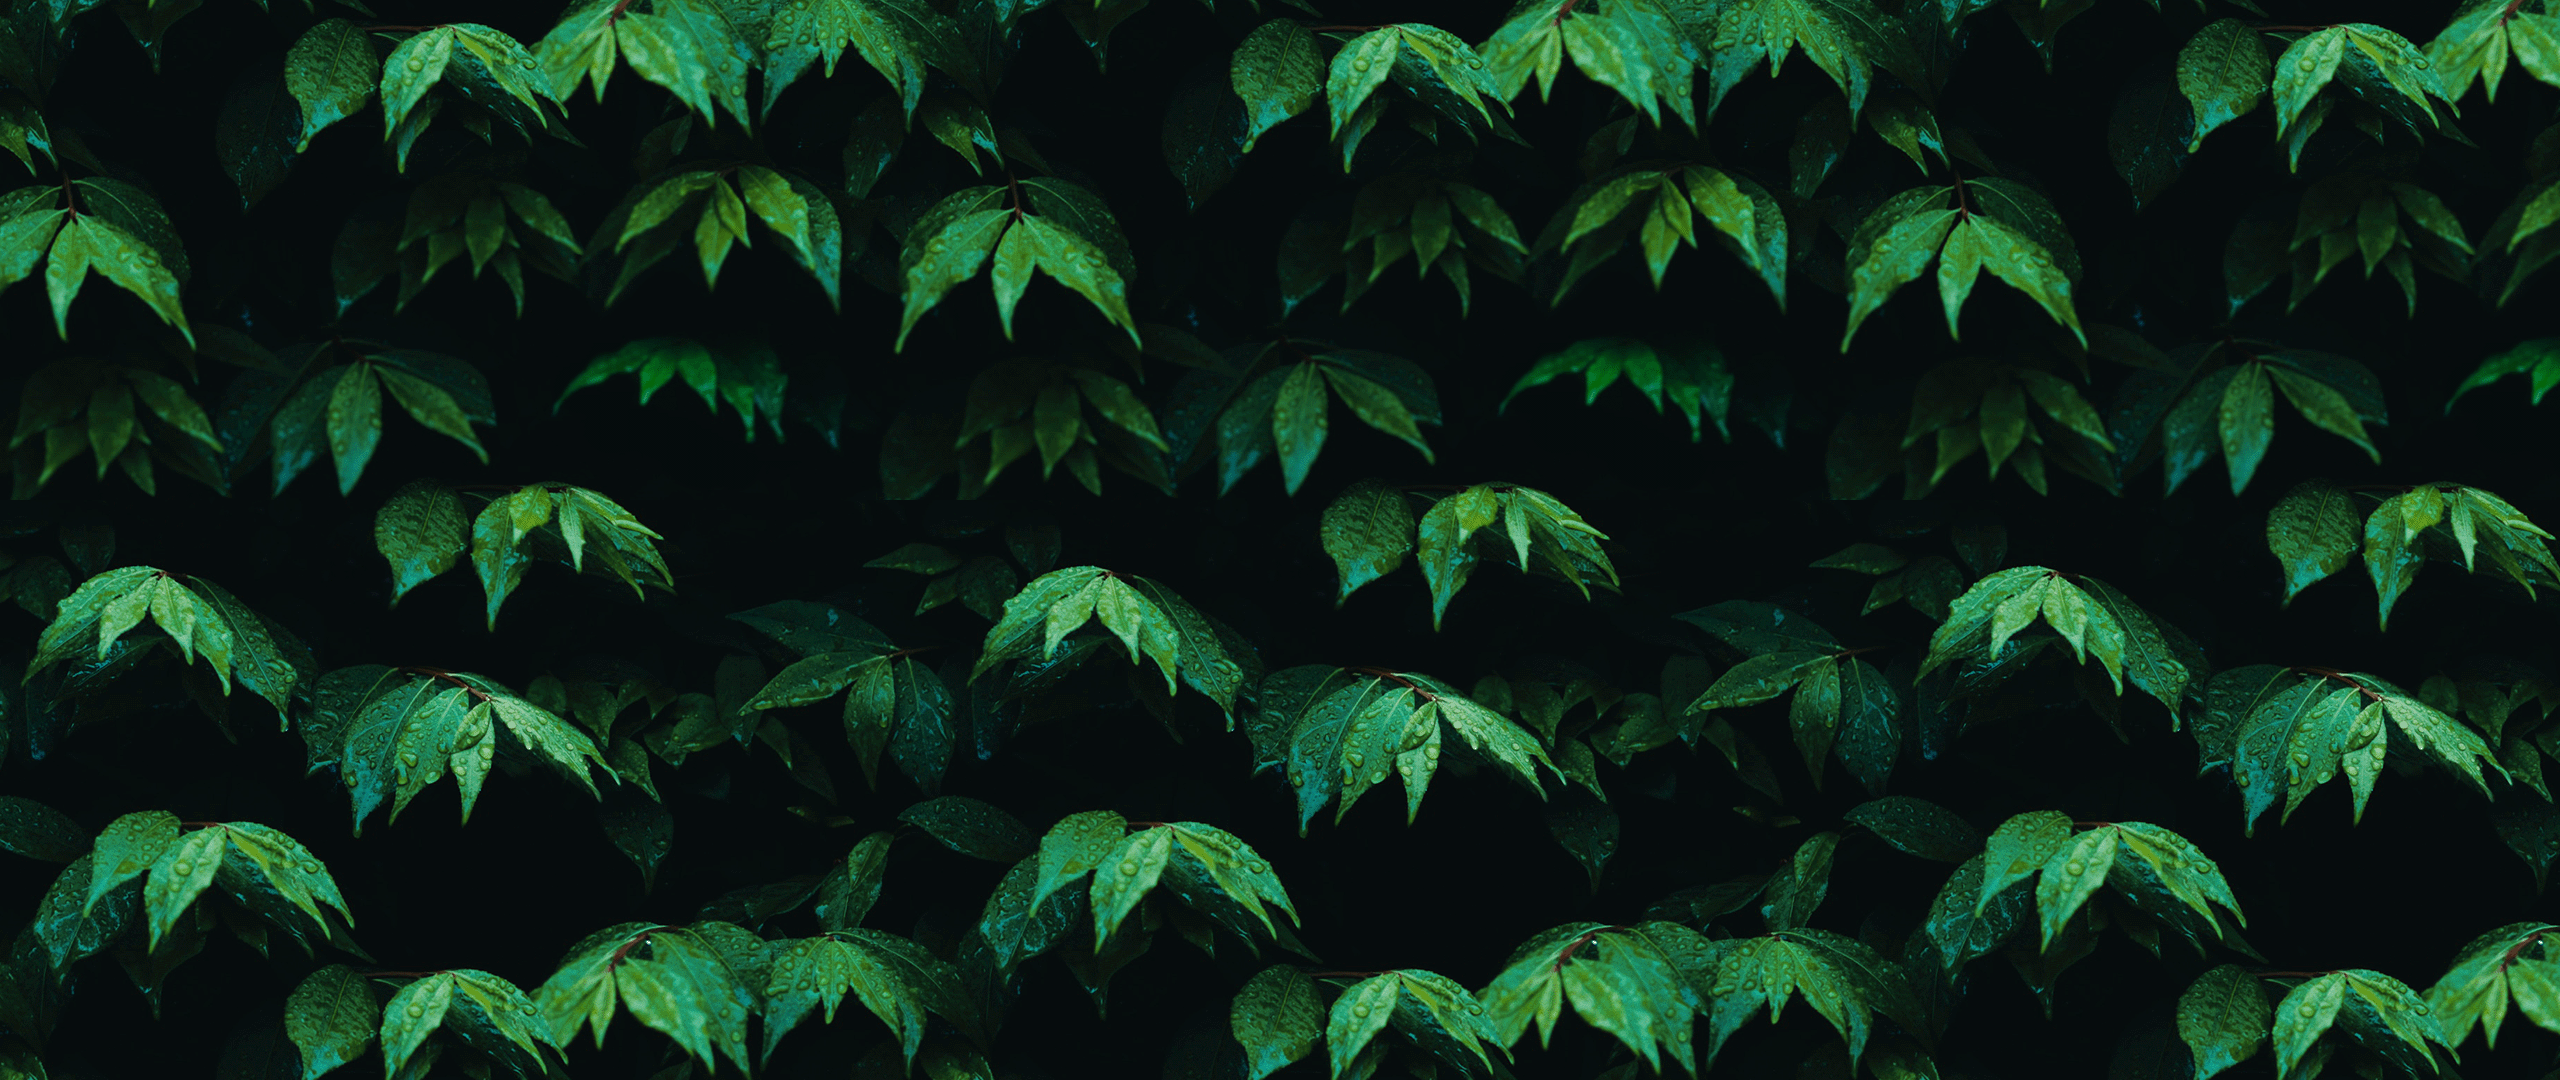
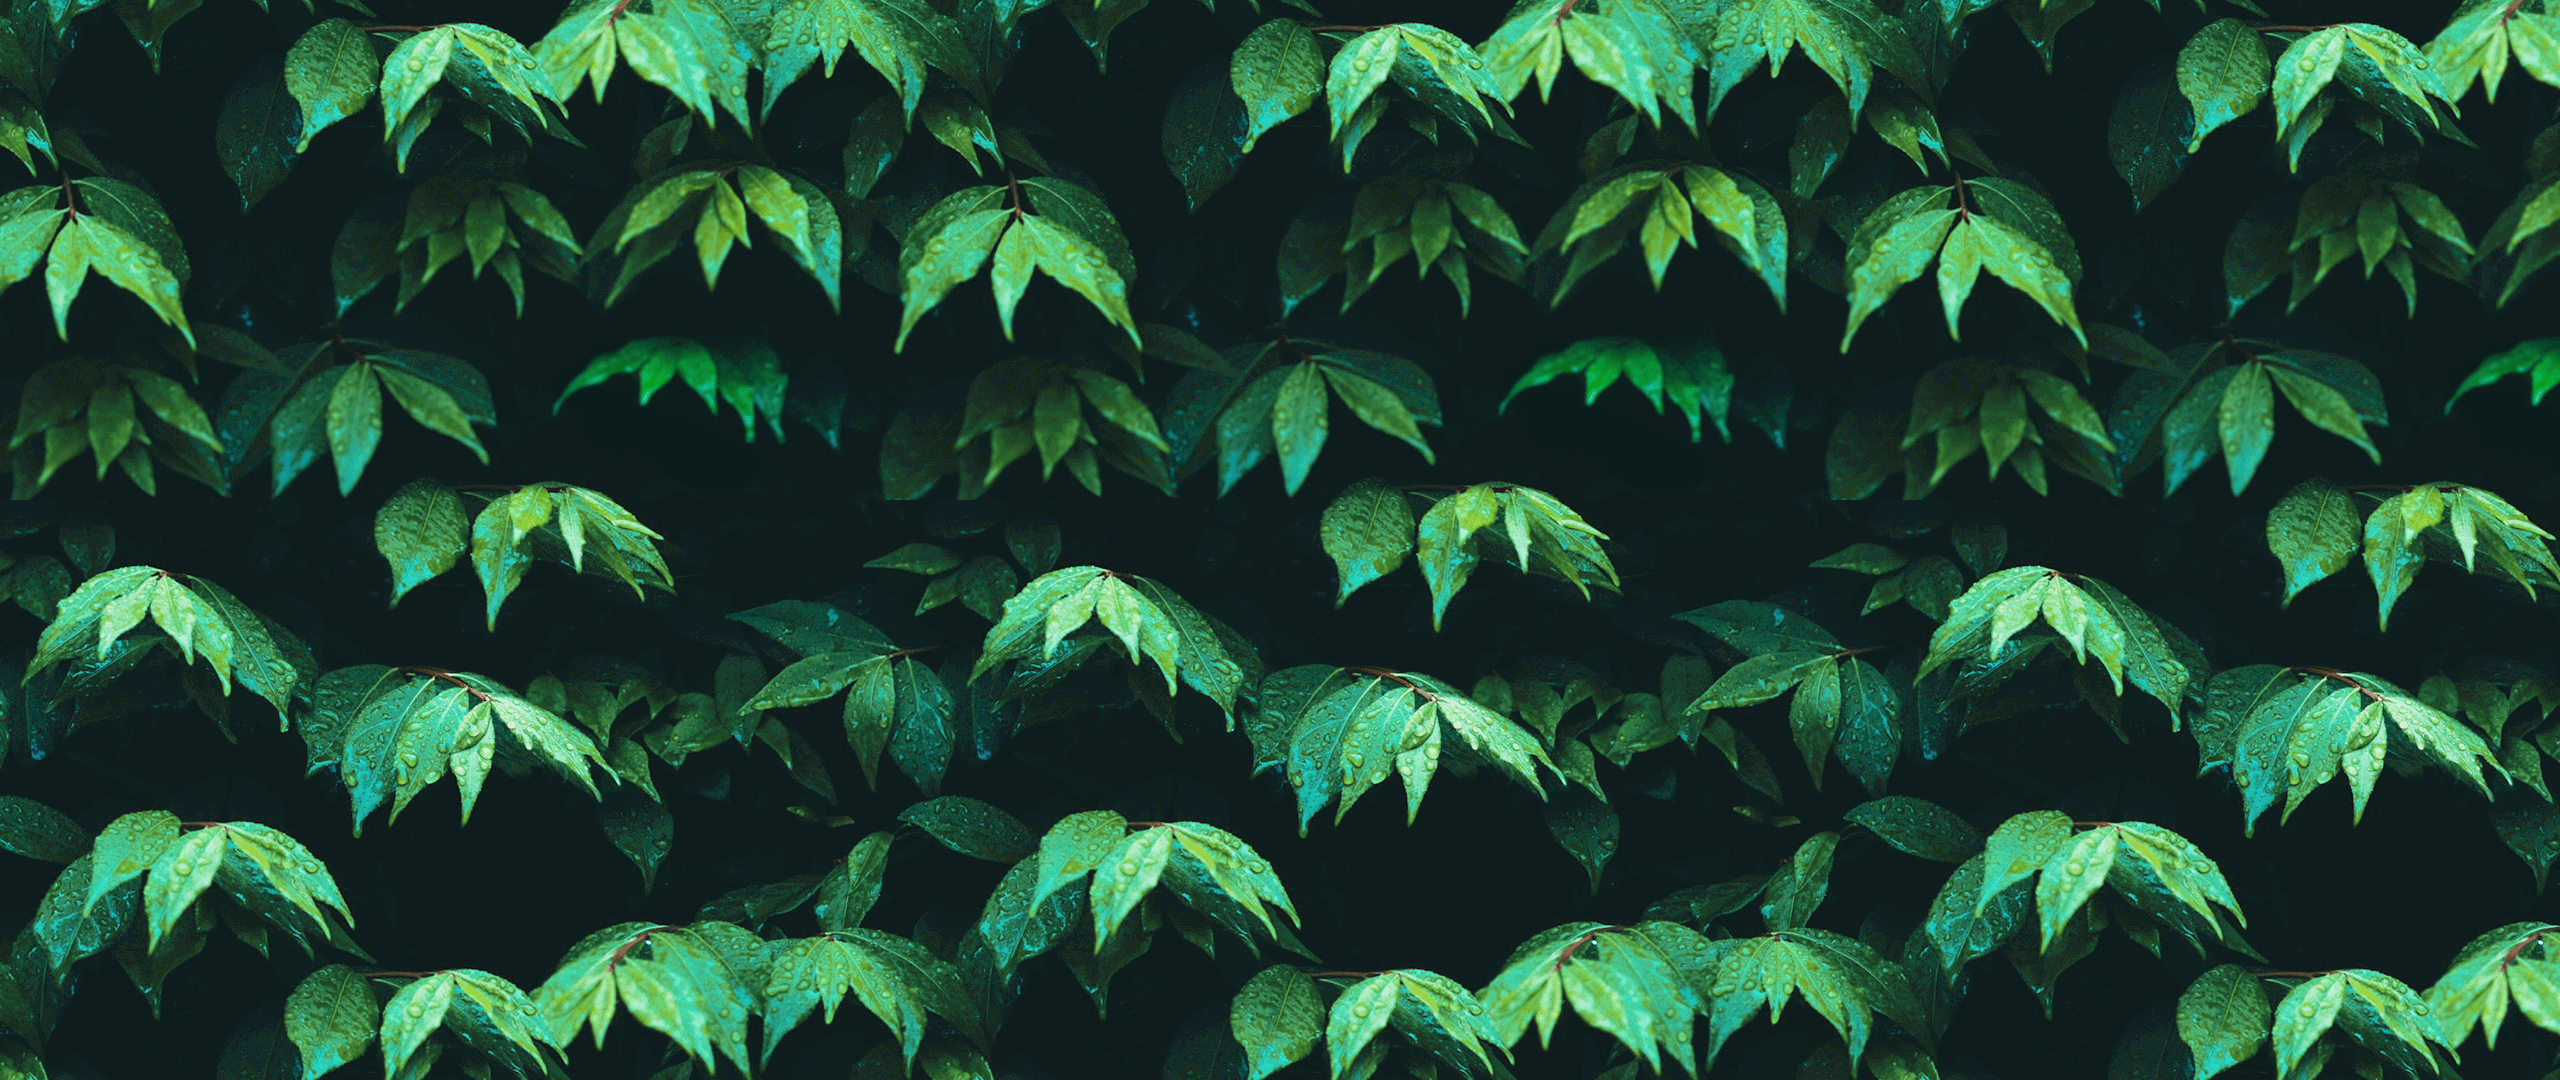
Styled faq and contact

diff --git a/src/styles/faq.css b/src/styles/faq.css
@@ -1,17 +1,21 @@
 .faqWrapper {
-    background-color: rgb(160, 159, 157);
     min-height: 89vh;
     color: rgb(255, 254, 254);
+    background-image: url("../images/Test.png");
+    background-size: cover;
 }
 
 /* TOP */
+.faqTop {
+    background-color: #00e88f8f;
+}
+
 .topLeft, .topRight {
     display: flex;
     align-items: center;
     width: 100%;
     min-height: 60vh;
     max-height: 60vh;
-    background-color: #00e88e;
     color: rgb(0, 0, 0);
     font-size: 22px;
 }
@@ -31,6 +35,10 @@
     border-bottom: 1px solid black;
 }
 
+.faqTextTopLeft > p, .faqTextTopRight > p {
+    text-shadow: #000000 0.1px 0.1px 1px;
+}
+
 /* BOTH */
 .topLeft, .topRight, .botLeft, .botMid, .botRight {
     display: flex;
@@ -38,6 +46,11 @@
 }
 
 /* BOTTOM */
+.faqBot {
+    background: rgb(51,51,51);
+    background: linear-gradient(90deg, rgba(51,51,51,0.95) 0%, rgba(41,41,41,0.95) 50%, rgba(37,37,37,0.95) 100%);
+}
+
 .botLeft, .botMid, .botRight {
     display: flex;
     align-items: center;
@@ -59,12 +72,12 @@
     border-bottom: 1px solid #00e88e;
 }
 
-.botLeft{
-    background-color: #333333;
-}
-.botMid{
-    background-color: #292929;
-}
-.botRight{
-    background-color: #252525;
-}
+/* .botLeft{
+    background-color: #333333f1;
+} */
+/* .botMid{
+    background-color: #292929f1;
+} */
+/* .botRight{
+    background-color: #252525f1;
+} */

diff --git a/src/pages/FAQ.js b/src/pages/FAQ.js
@@ -34,7 +34,7 @@ function FAQ() {
 
   return (
         <div className="faqWrapper">
-          <Row type="flex">
+          <Row type="flex" className="faqTop">
             <Col span={12}>
               <div className="topLeft">
                 <div className="faqTextTopLeft">
@@ -52,7 +52,7 @@ function FAQ() {
               </div>
             </Col>
           </Row>
-          <Row type="flex">
+          <Row type="flex" className="faqBot">
             <Col span={8}>
               <div className="botLeft">
                 <div className="faqTextBotLeft">

diff --git a/src/styles/contact.css b/src/styles/contact.css
@@ -4,7 +4,7 @@
 }
 
 .contactWrapper {
-    background-image: url("../images/Test.png");
+    background-image: url("../images/Test2.png");
     background-size: cover;
     display: flex;
     align-items: center;
